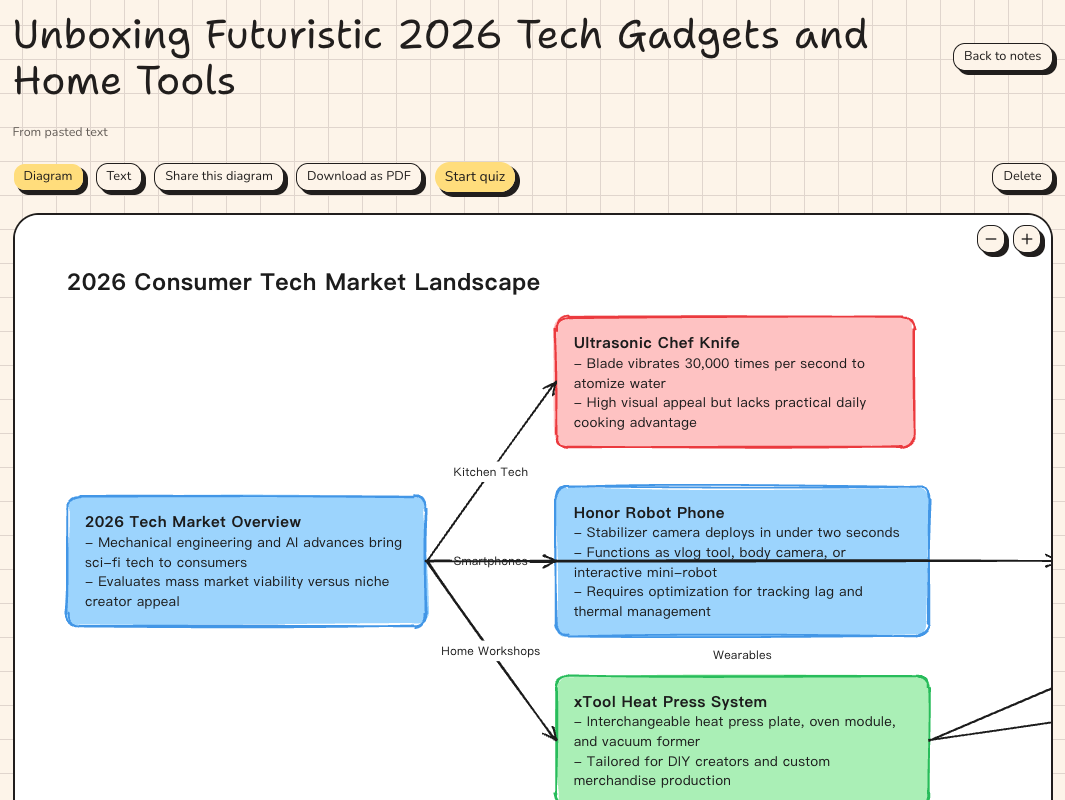
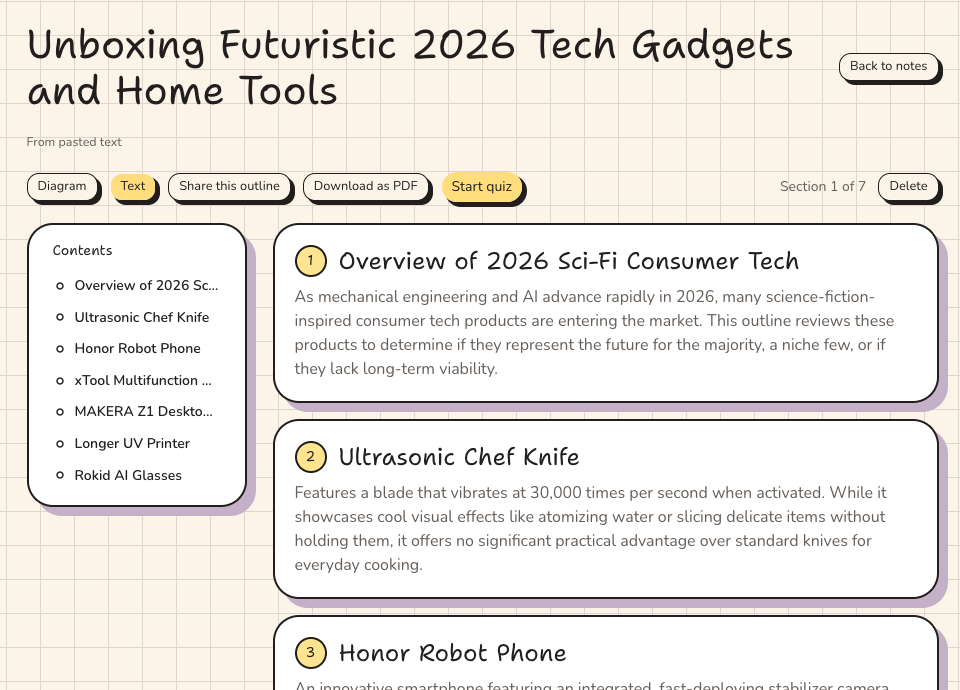
yoution: real English outline and notes screenshots
Replace the stand-in English shots with a cropped English outline page
and notes list, and describe the outline in the English caption.

diff --git a/src/data/projects.ts b/src/data/projects.ts
@@ -168,10 +168,10 @@ export const projects: Project[] = [
     shots: [
       {
         src: { zh: yOutlineZh, en: yOutlineEn },
-        alt: { zh: 'Yoution 由 LLM 產生的分段綱要', en: 'An LLM-generated diagram in Yoution' },
+        alt: { zh: 'Yoution 由 LLM 產生的分段綱要', en: 'An LLM-generated sectioned outline in Yoution' },
         caption: {
           zh: '貼上一篇文章，背景產生分段綱要，左側目錄可直接跳到各段',
-          en: 'Paste a piece of content and the backend generates an outline and a diagram in the background (rendered as scalable SVG)',
+          en: 'Paste an article and the backend generates a sectioned outline in the background; the contents list jumps to each section',
         },
       },
       {
